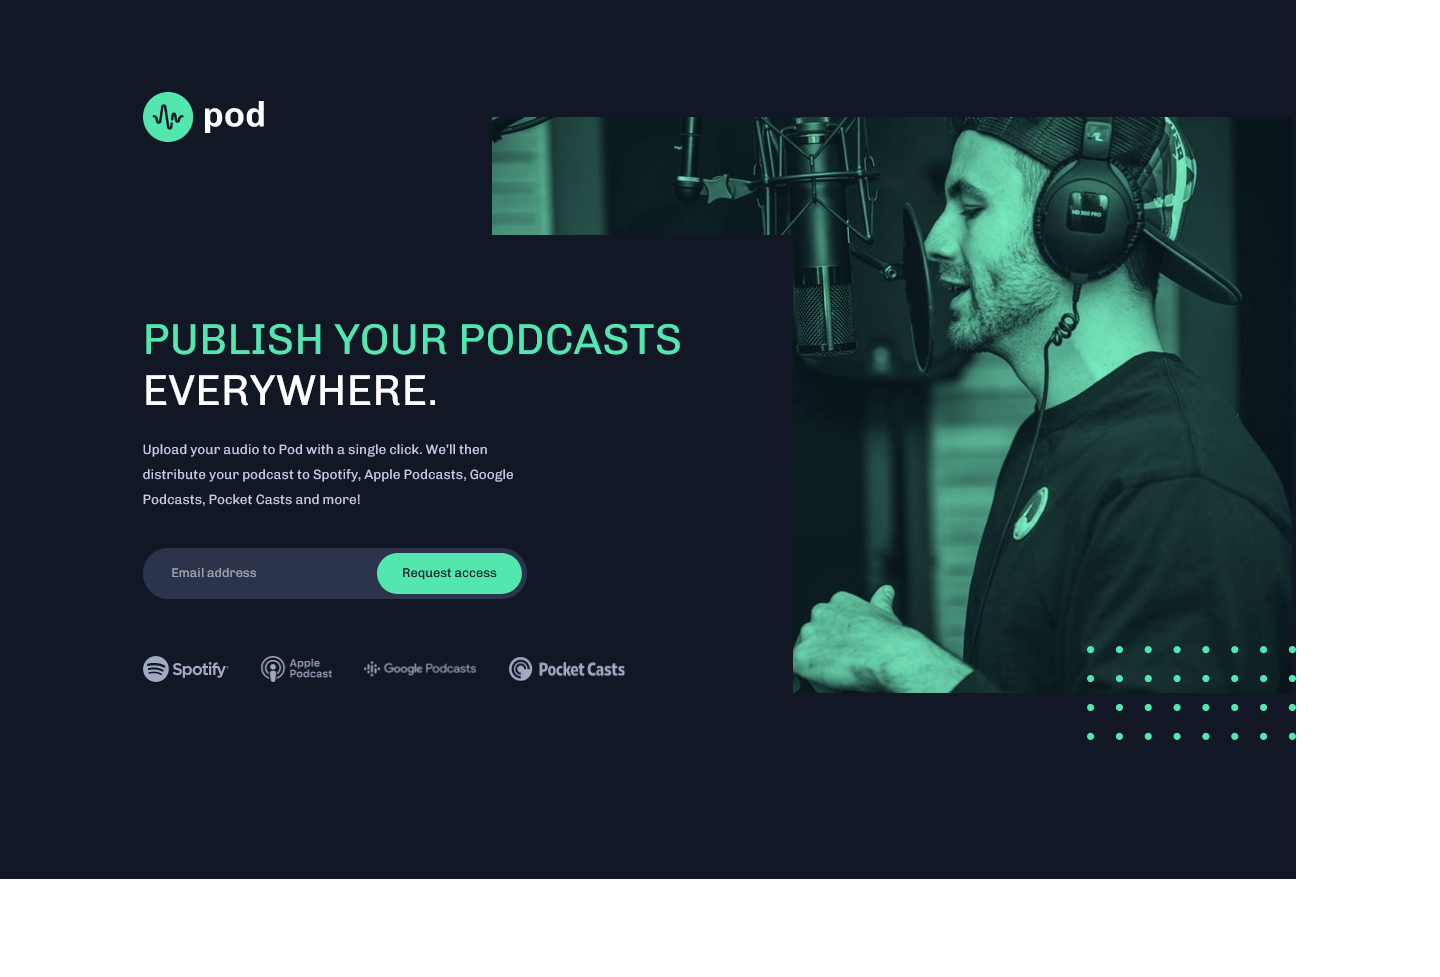
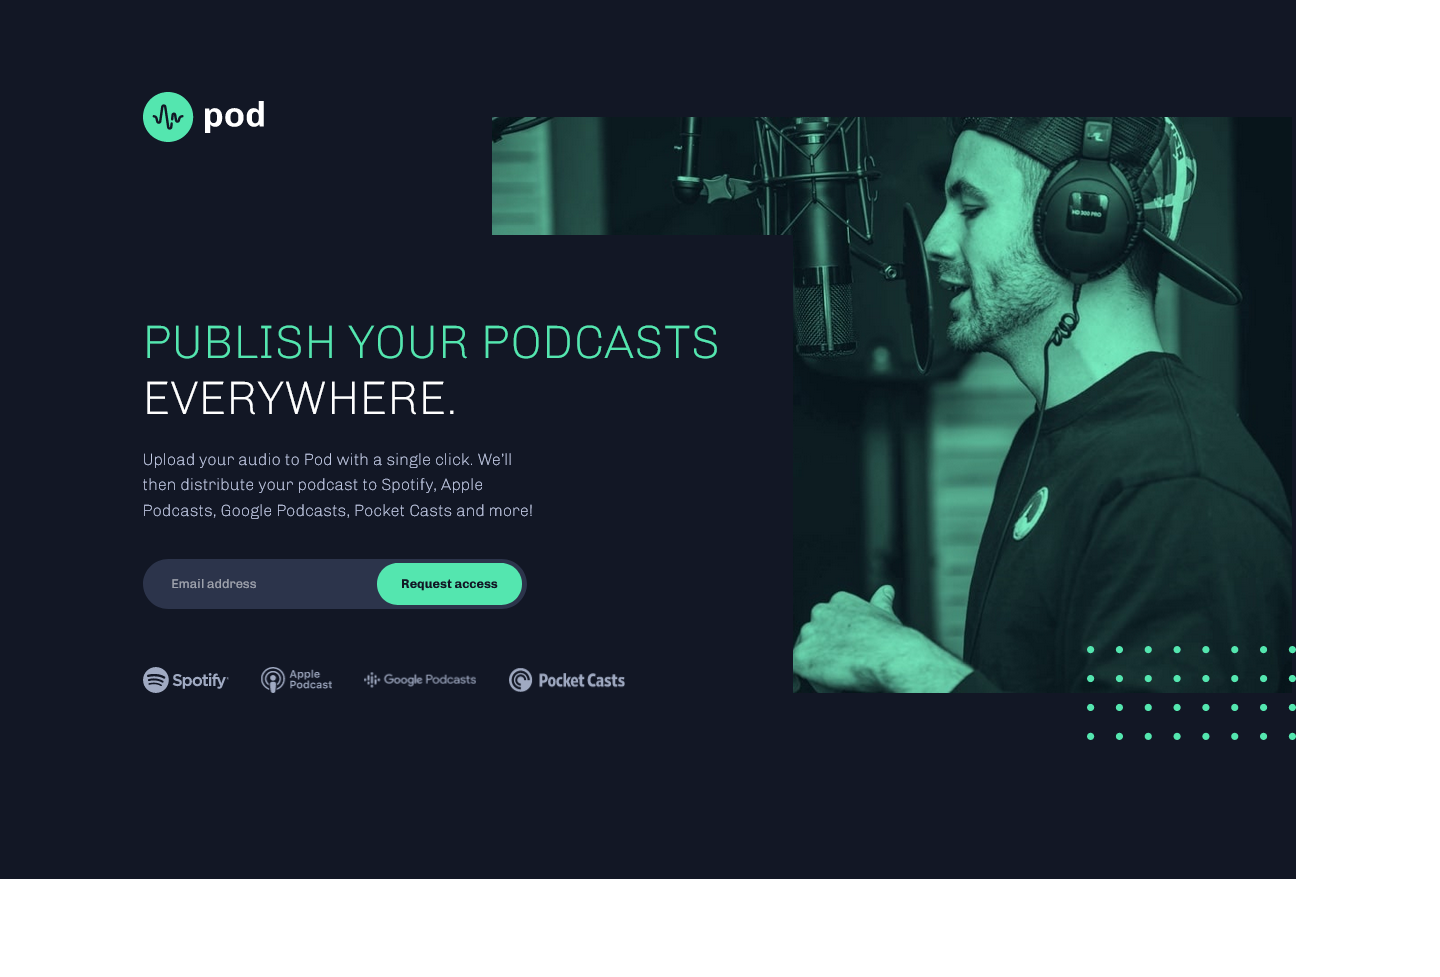
font-size fix and new screenshots

Changed region(s): [[0.0938, 0.4606, 0.375, 0.6448], [0.0938, 0.3071, 0.5, 0.4299], [0.0938, 0.6755, 0.4375, 0.7062]]

diff --git a/styles/mobile.css b/styles/mobile.css
@@ -1,4 +1,4 @@
-@import url('https://fonts.googleapis.com/css2?family=Chivo:wght@200;300;400&display=swap');
+@import url('https://fonts.googleapis.com/css2?family=Chivo:wght@100;200;300;400;700&display=swap');
 @import url('https://fonts.googleapis.com/css2?family=Montserrat:wght@400;500;700&display=swap');
 
 /* Design system styles */
@@ -23,7 +23,7 @@ body {
   box-shadow: inset 0 0 0 1000px rgba(18, 23, 37, 0.9);
   font-family: 'Chivo', 'sans-serif';
   font-size: 0.9375rem;
-  font-weight: 200;
+  font-weight: 100;
   color: var(--gray-1);
   display: flex;
   flex-direction: column;
@@ -48,9 +48,9 @@ main {
 .page-heading {
   text-transform: uppercase;
   text-align: center;
-  font-size: clamp(26px, 5.6vw + 0.31rem, 48px);
-  line-height: clamp(38px, 4.58vw + 1.3rem, 56px);
-  font-weight: 200;
+  font-size: clamp(1.625rem, 5.6vw + 0.31rem, 3rem);
+  line-height: clamp(2.375rem, 4.58vw + 1.3rem, 3.5rem);
+  font-weight: 100;
   color: var(--green);
 }
 
@@ -59,15 +59,15 @@ main {
 }
 
 .page-paragraph {
-  margin-top: clamp(16px, 6.11vw + -0.43rem, 40px);
-  font-size: clamp(15px, 0.19vw + 0.83rem, 15px);
-  line-height: clamp(25px, 0.76vw + 1.38rem, 28px);
+  margin-top: clamp(1rem, 6.11vw + -0.43rem, 2.5rem);
+  font-size: clamp(0.9375rem, 0.76vw + 0.76rem, 1.125rem);
+  line-height: clamp(1.5625rem, 0.76vw + 1.38rem, 1.75rem);
   text-align: center;
   max-width: 27.8125rem;
 }
 
 .page-form {
-  margin-top: clamp(40px, -2.04vw + 3.48rem, 48px);
+  margin-top: clamp(2.5rem, -2.04vw + 3.48rem, 3rem);
   order: 3;
   display: flex;
   flex-direction: column;
@@ -86,7 +86,7 @@ input {
   outline: none;
   cursor: pointer;
   width: clamp(20.4375rem, 25.45vw + 14.47rem, 26.6875rem);
-  height: clamp(46px, 2.54vw + 2.28rem, 56px);
+  height: clamp(2.875rem, 2.54vw + 2.28rem, 3.5rem);
 }
 
 .email-input {
@@ -99,6 +99,7 @@ input {
   margin-top: 1rem;
   color: var(--black);
   background-color: var(--green);
+  font-weight: 700;
 }
 
 .submit-button:hover {
@@ -121,7 +122,7 @@ input {
   line-height: 0.875rem;
   color: var(--soft-red);
   position: absolute;
-  top: -22px;
+  top: -1.375rem;
   left: 2rem;
 }
 
@@ -163,11 +164,12 @@ input {
   body {
     background-image: url('../assets/desktop/bg-pattern-dots.svg'),
       url('../assets/tablet/image-host.jpg');
-    background-position: top 57.5rem left clamp(40px, 18.6vw + -6.43rem, 165px),
+    background-position: top 57.5rem left
+        clamp(2.5rem, 18.6vw + -6.43rem, 10.3125rem),
       top right;
-    background-size: auto, 491px;
+    background-size: auto, 30.6875rem;
     box-shadow: none;
-    padding-left: clamp(40px, 18.6vw + -6.43rem, 165px);
+    padding-left: clamp(2.5rem, 18.6vw + -6.43rem, 10.3125rem);
     align-items: flex-start;
     min-height: 64rem;
   }
@@ -178,8 +180,8 @@ input {
 
   main {
     background-color: var(--black);
-    margin-top: clamp(103px, -7.29vw + 13rem, 152px);
-    padding-top: clamp(5.25rem, 0.6vw + 79.36px, 88px);
+    margin-top: clamp(6.4375rem, -7.29vw + 13rem, 9.5rem);
+    padding-top: clamp(5.25rem, 0.6vw + 79.36px, 5.5rem);
     padding-bottom: 0.5rem;
     display: flex;
     flex-direction: column;
@@ -187,28 +189,30 @@ input {
     width: clamp(39.6875rem, 13.1vw + 33.4rem, 45.1875rem);
   }
 
-  .page-heading,
-  .page-paragraph {
+  .page-heading {
     text-align: left;
+    font-size: clamp(3rem, 0.6vw + 2.71rem, 3.25rem);
+    line-height: clamp(3.5rem, 0.89vw + 3.07rem, 3.875rem);
   }
 
   .page-paragraph {
     margin-top: clamp(1.5rem, -2.38vw + 3.64rem, 2.5rem);
+    text-align: left;
   }
 
   .page-form {
     position: relative;
     align-items: flex-end;
-    margin-top: 40px;
+    margin-top: 2.5rem;
     order: 0;
   }
 
   .submit-button {
     position: absolute;
     margin-top: 0px;
-    margin-right: 5px;
-    width: 162px;
-    height: 46px;
+    margin-right: 0.3125rem;
+    width: 10.125rem;
+    height: 2.875rem;
   }
 
   .error-message {
@@ -234,8 +238,8 @@ input {
 
   main {
     background-color: var(--black);
-    margin-top: clamp(103px, -7.29vw + 13rem, 152px);
-    padding-top: clamp(5.25rem, 0.6vw + 79.36px, 88px);
+    margin-top: clamp(6.4375rem, -7.29vw + 13rem, 9.5rem);
+    padding-top: clamp(5.25rem, 0.6vw + 79.36px, 5.5rem);
     padding-bottom: 1rem;
     display: flex;
     flex-direction: column;
@@ -255,15 +259,15 @@ input {
   .page-form {
     position: relative;
     align-items: flex-end;
-    margin-top: 40px;
+    margin-top: 2.5rem;
     order: 0;
   }
 
   .submit-button {
     position: absolute;
     margin-top: 0px;
-    margin-right: 5px;
-    width: 162px;
-    height: 46px;
+    margin-right: 0.3125rem;
+    width: 10.125rem;
+    height: 2.875rem;
   }
 }
